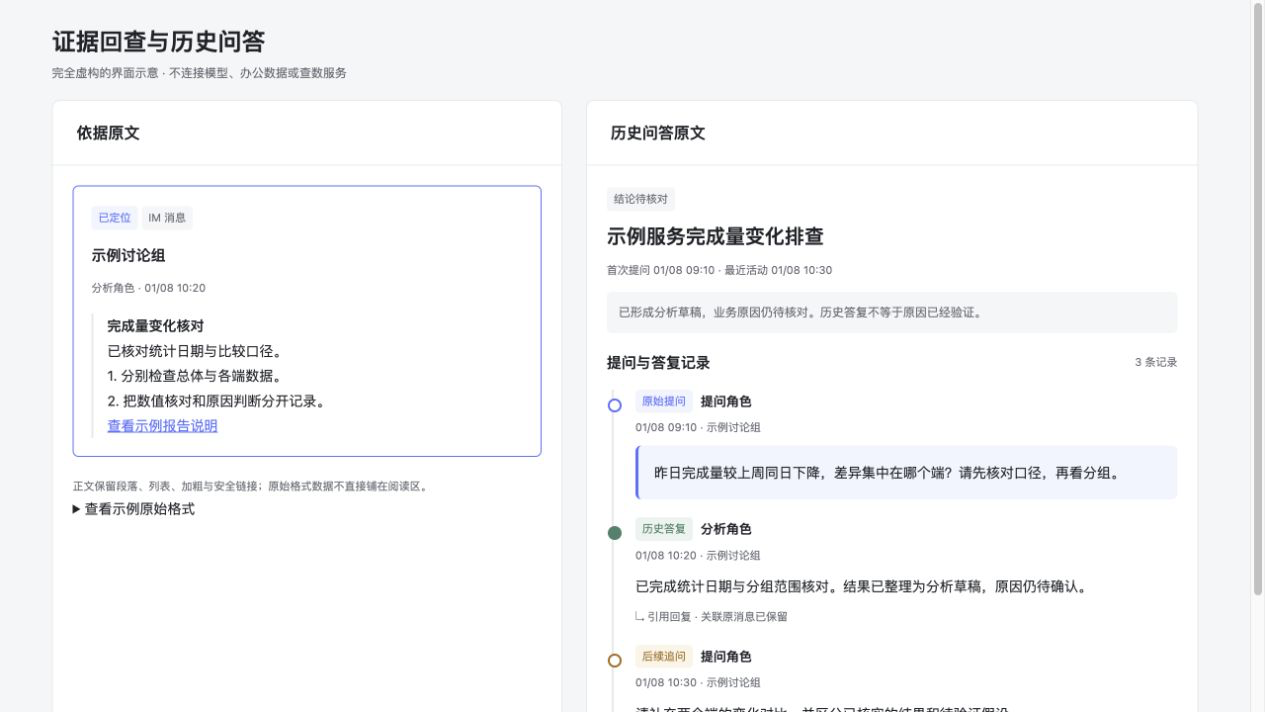
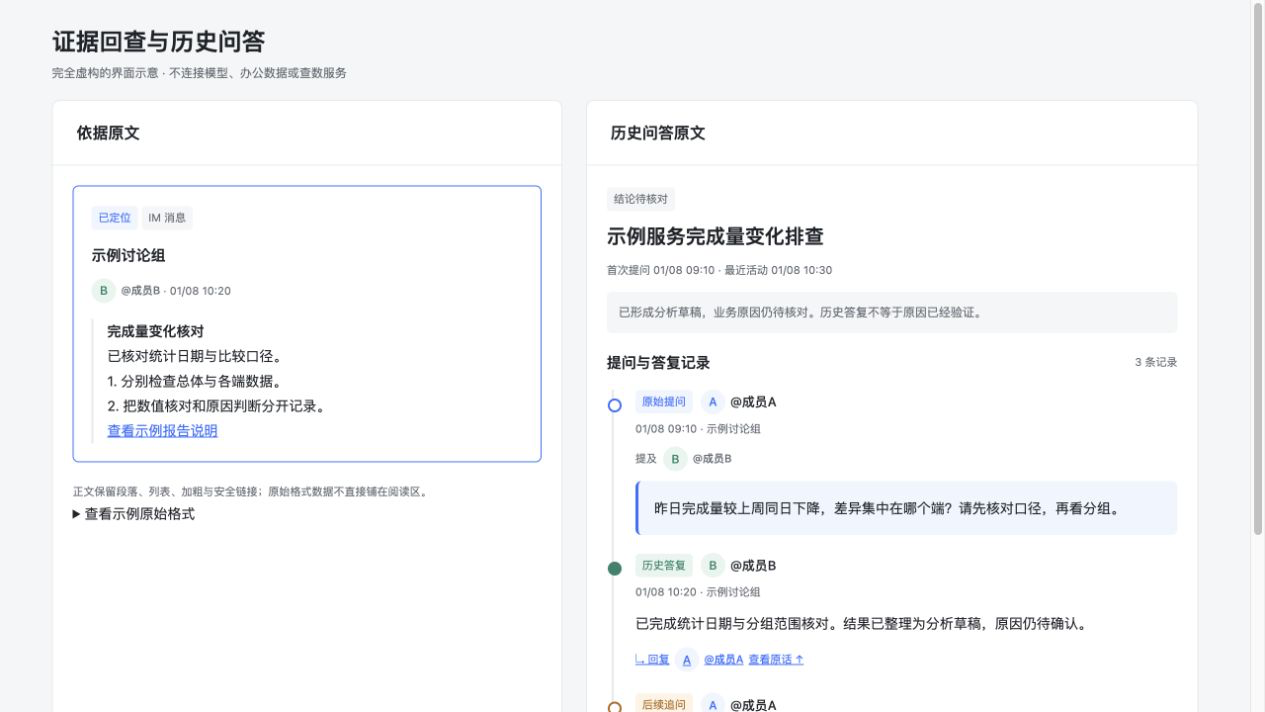
ui: connect synthetic authors mentions and reply navigation (#6)

diff --git a/demo/evidence-timeline.html b/demo/evidence-timeline.html
@@ -1,7 +1,7 @@
 <!doctype html><html lang="zh-CN"><meta charset="utf-8"><meta name="viewport" content="width=device-width,initial-scale=1"><title>第三大脑 · 证据与对话展示示意</title><style>
 :root{--ink:#1f2329;--secondary:#646a73;--muted:#8f959e;--line:#e8e9eb;--blue:#3370ff;--soft:#f5f6f7;--green:#25836a;--orange:#b26a12;--paper:#fff;--blue-soft:#f0f5ff}
 *{box-sizing:border-box}body{margin:0;padding:20px;background:var(--soft);color:var(--ink);font:14px/1.8 -apple-system,BlinkMacSystemFont,"PingFang SC",sans-serif}h1,h2,h3,p{margin:0}a{color:var(--blue)}header{max-width:1160px;margin:0 auto 16px}header h1{font-size:24px}header p{color:var(--secondary);font-size:12px}main{max-width:1160px;margin:auto;display:grid;grid-template-columns:1fr 1.2fr;gap:24px}.panel{background:var(--paper);border:1px solid var(--line);border-radius:8px;overflow:hidden}.panel-title{padding:18px 24px;border-bottom:1px solid var(--line);font-weight:600;font-size:16px}.content{padding:20px}.meta{font-size:11px;color:var(--secondary);margin:10px 0}.badge{display:inline-block;padding:2px 7px;border-radius:4px;background:var(--soft);font-size:11px;color:var(--secondary)}.blue{background:var(--blue-soft);color:var(--blue)}.green{background:#e8f5ef;color:var(--green)}.orange{background:#fff4e6;color:var(--orange)}.rich{white-space:pre-wrap;overflow-wrap:anywhere}.rich strong{font-weight:600}.rich code{background:var(--soft);padding:2px 4px}.evidence{border:1px solid var(--blue);border-radius:6px;padding:18px}.evidence h3{font-size:15px;margin:12px 0 4px}.evidence blockquote{border-left:2px solid var(--line);margin:16px 0 0;padding-left:14px}.history-title{font-size:20px;line-height:1.5;margin-top:10px}.note{padding:10px 12px;background:var(--soft);border-radius:5px;color:var(--secondary);font-size:12px;margin:12px 0 16px}.heading{display:flex;justify-content:space-between;align-items:center;margin-bottom:14px}.heading h3{font-size:15px}.heading span{font-size:11px;color:var(--secondary)}ol.timeline{list-style:none;border-left:2px solid var(--line);padding:0 0 0 22px;margin:0 0 0 5px}.event{position:relative;padding-bottom:18px}.event:before{content:"";position:absolute;left:-28px;top:9px;width:10px;height:10px;border:2px solid var(--blue);border-radius:50%;background:var(--paper)}.event.reply:before{border-color:var(--green);background:var(--green)}.event.followup:before{border-color:var(--orange)}.event-head{display:flex;gap:8px;align-items:center;font-size:13px}.event .meta{margin:5px 0 8px}.question .body{background:var(--blue-soft);border-left:3px solid var(--blue);border-radius:6px;padding:14px 16px}.body{font-size:14px;white-space:pre-wrap;line-height:1.9}.reply-link{color:var(--secondary);font-size:11px;margin-top:8px}button{font:inherit;cursor:pointer;background:var(--blue-soft);border:0;color:var(--blue);border-radius:4px;padding:5px 10px}.boundary{font-size:11px;color:var(--secondary);margin-top:20px}summary{cursor:pointer}pre{white-space:pre-wrap;overflow-wrap:anywhere}@media(max-width:800px){body{padding:18px}main{grid-template-columns:1fr}.content{padding:18px}}
-</style><header><h1>证据回查与历史问答</h1><p>完全虚构的界面示意 · 不连接模型、办公数据或查数服务</p></header><main><section class="panel"><div class="panel-title">依据原文</div><div class="content"><article class="evidence"><span class="badge blue">已定位</span> <span class="badge">IM 消息</span><h3>示例讨论组</h3><p class="meta">分析角色 · 01/08 10:20</p><blockquote id="evidence" class="rich"></blockquote></article><p class="boundary">正文保留段落、列表、加粗与安全链接；原始格式数据不直接铺在阅读区。</p><details><summary>查看示例原始格式</summary><pre id="raw"></pre></details></div></section><section class="panel"><div class="panel-title">历史问答原文</div><div class="content"><span class="badge">结论待核对</span><h2 class="history-title">示例服务完成量变化排查</h2><p class="meta">首次提问 01/08 09:10 · 最近活动 01/08 10:30</p><p class="note">已形成分析草稿，业务原因仍待核对。历史答复不等于原因已经验证。</p><div class="heading"><h3>提问与答复记录</h3><span>3 条记录</span></div><ol class="timeline" id="timeline"></ol><button id="toggle">展开引用原图说明</button><p id="image-note" class="boundary" hidden>此处仅展示引用关系，不加载真实看板或图片。</p></div></section></main><script>
+.im-person{display:inline-flex;align-items:center;gap:5px;font-weight:500}.avatar{display:inline-grid;place-items:center;width:25px;height:25px;border-radius:50%;background:var(--blue-soft);color:var(--blue);font-size:12px}.avatar-b{background:#e8f5ef;color:var(--green)}.targets{display:flex;gap:6px;align-items:center;font-size:11px;color:var(--secondary);margin:6px 0 10px}.reply-target{margin-top:8px;padding:3px 0;background:none;font-size:11px;display:flex;gap:5px;align-items:center}.event:target{outline:2px solid var(--blue);outline-offset:6px;border-radius:4px}</style><header><h1>证据回查与历史问答</h1><p>完全虚构的界面示意 · 不连接模型、办公数据或查数服务</p></header><main><section class="panel"><div class="panel-title">依据原文</div><div class="content"><article class="evidence"><span class="badge blue">已定位</span> <span class="badge">IM 消息</span><h3>示例讨论组</h3><p class="meta"><span class="im-person"><span class="avatar avatar-b">B</span> @成员B</span> · 01/08 10:20</p><blockquote id="evidence" class="rich"></blockquote></article><p class="boundary">正文保留段落、列表、加粗与安全链接；原始格式数据不直接铺在阅读区。</p><details><summary>查看示例原始格式</summary><pre id="raw"></pre></details></div></section><section class="panel"><div class="panel-title">历史问答原文</div><div class="content"><span class="badge">结论待核对</span><h2 class="history-title">示例服务完成量变化排查</h2><p class="meta">首次提问 01/08 09:10 · 最近活动 01/08 10:30</p><p class="note">已形成分析草稿，业务原因仍待核对。历史答复不等于原因已经验证。</p><div class="heading"><h3>提问与答复记录</h3><span>3 条记录</span></div><ol class="timeline" id="timeline"></ol><button id="toggle">展开引用原图说明</button><p id="image-note" class="boundary" hidden>此处仅展示引用关系，不加载真实看板或图片。</p></div></section></main><script>
 function richMessageRuns(value) {
   if (typeof value !== 'string' || value.length > 1000000) return null;
   try {
@@ -99,6 +99,10 @@ function partialRichMessageRuns(value) {
 
 
 function safeSourceUrl(value){try{const u=new URL(value);return ['https:','http:'].includes(u.protocol)&&!u.username&&!u.password?u.href:null}catch{return null}}
+function conversationView(events,people){
+ const known=new Map(people.map(person=>[person.key,person]));
+ return events.map(event=>({...event,author:known.get(event.sender)||null,targets:(event.mentionKeys||[]).map(key=>known.get(key)).filter(Boolean),parent:events.find(parent=>parent.id===event.replyTo&&parent.source===event.source&&parent.at<=event.at)||null}));
+}
 function renderRich(target,value){
  const complete=richMessageRuns(value),runs=complete||partialRichMessageRuns(value);
  if(!runs){target.textContent=value;return}
@@ -108,7 +112,9 @@ function renderRich(target,value){
 const styled=text=>({type:'text',style_content:{text,style:{}}});
 const evidence=JSON.stringify({rich_text:{elements:[{type:'nl',elements:[{type:'text',style_content:{text:'完成量变化核对',style:{bold:true}}}]},{type:'nl',elements:[styled('已核对统计日期与比较口径。')]},{type:'ol',index:0,elements:[styled('分别检查总体与各端数据。')]},{type:'ol',index:1,elements:[styled('把数值核对和原因判断分开记录。')]},{type:'nl',elements:[{type:'text',style_content:{text:'查看示例报告说明',url:'https://example.org/',style:{underline:true}}}]}]}});
 renderRich(document.getElementById('evidence'),evidence);document.getElementById('raw').textContent=evidence;
-const events=[{kind:'question',label:'原始提问',badge:'blue',speaker:'提问角色',time:'01/08 09:10',body:'昨日完成量较上周同日下降，差异集中在哪个端？请先核对口径，再看分组。'},{kind:'reply',label:'历史答复',badge:'green',speaker:'分析角色',time:'01/08 10:20',body:'已完成统计日期与分组范围核对。结果已整理为分析草稿，原因仍待确认。',ref:true},{kind:'followup',label:'后续追问',badge:'orange',speaker:'提问角色',time:'01/08 10:30',body:'请补充两个端的变化对比，并区分已核实的结果和待验证假设。',ref:true}];
-for(const e of events){const li=document.createElement('li');li.className='event '+e.kind;const head=document.createElement('div');head.className='event-head';const badge=document.createElement('span');badge.className='badge '+e.badge;badge.textContent=e.label;const person=document.createElement('strong');person.textContent=e.speaker;head.append(badge,person);const meta=document.createElement('p');meta.className='meta';meta.textContent=e.time+' · 示例讨论组';const body=document.createElement('div');body.className='body';body.textContent=e.body;li.append(head,meta,body);if(e.ref){const ref=document.createElement('p');ref.className='reply-link';ref.textContent='↳ 引用回复 · 关联原消息已保留';li.append(ref)}document.getElementById('timeline').append(li)}
+const people=[{key:'mock-a',label:'成员A',initial:'A'},{key:'mock-b',label:'成员B',initial:'B'}];
+const events=[{id:'question',source:'mock-chat',at:1,kind:'question',label:'原始提问',badge:'blue',sender:'mock-a',mentionKeys:['mock-b'],time:'01/08 09:10',body:'昨日完成量较上周同日下降，差异集中在哪个端？请先核对口径，再看分组。'},{id:'reply',source:'mock-chat',at:2,kind:'reply',label:'历史答复',badge:'green',sender:'mock-b',replyTo:'question',time:'01/08 10:20',body:'已完成统计日期与分组范围核对。结果已整理为分析草稿，原因仍待确认。'},{id:'followup',source:'mock-chat',at:3,kind:'followup',label:'后续追问',badge:'orange',sender:'mock-a',mentionKeys:['mock-b'],replyTo:'reply',time:'01/08 10:30',body:'请补充两个端的变化对比，并区分已核实的结果和待验证假设。'}];
+function personChip(person){const span=document.createElement('span');span.className='im-person';if(!person){span.textContent='身份待确认';return span}span.dataset.personKey=person.key;const avatar=document.createElement('span');avatar.className='avatar'+(person.key==='mock-b'?' avatar-b':'');avatar.textContent=person.initial;avatar.setAttribute('aria-hidden','true');span.append(avatar,document.createTextNode('@'+person.label));return span}
+for(const e of conversationView(events,people)){const li=document.createElement('li');li.id='conversation-'+e.id;li.className='event '+e.kind;const head=document.createElement('div');head.className='event-head';const badge=document.createElement('span');badge.className='badge '+e.badge;badge.textContent=e.label;head.append(badge,personChip(e.author));const meta=document.createElement('p');meta.className='meta';meta.textContent=e.time+' · 示例讨论组';const body=document.createElement('div');body.className='body';body.textContent=e.body;li.append(head,meta);if(e.targets.length){const targets=document.createElement('div');targets.className='targets';targets.append(document.createTextNode('提及 '));for(const target of e.targets)targets.append(personChip(target));li.append(targets)}li.append(body);if(e.parent){const ref=document.createElement('a');ref.className='reply-target';ref.href='#conversation-'+e.parent.id;ref.append(document.createTextNode('↳ 回复 '),personChip(people.find(p=>p.key===e.parent.sender)),document.createTextNode(' 查看原话 ↑'));li.append(ref)}document.getElementById('timeline').append(li)}
 document.getElementById('toggle').onclick=()=>{const note=document.getElementById('image-note');note.hidden=!note.hidden;document.getElementById('toggle').setAttribute('aria-expanded',String(!note.hidden))};
 </script></html>

diff --git a/README.md b/README.md
@@ -93,7 +93,7 @@ flowchart LR
 
 ![业务问答：演示回答与引用](docs/product/assets/screenshots/answer.png)
 
-证据按段落、列表、加粗和链接呈现。历史问答用节点、角色标签和提问高亮区分原始提问、历史答复与后续追问，时间和来源作为辅助信息。截断资料明确标注不完整；匿名展示保守隐藏无法完整解析的正文。
+证据按段落、列表、加粗和链接呈现。历史问答用节点、角色标签和提问高亮区分原始提问、历史答复与后续追问，时间和来源作为辅助信息。发言人、@提及对象与引用回复使用一致的人物标识，点击回复对象可回到被引用的原话；公开示意统一使用虚构成员。截断资料明确标注不完整；匿名展示保守隐藏无法完整解析的正文。
 
 ![证据富文本与分层时间线：完全虚构的界面示意](docs/product/assets/screenshots/evidence.png)
 
